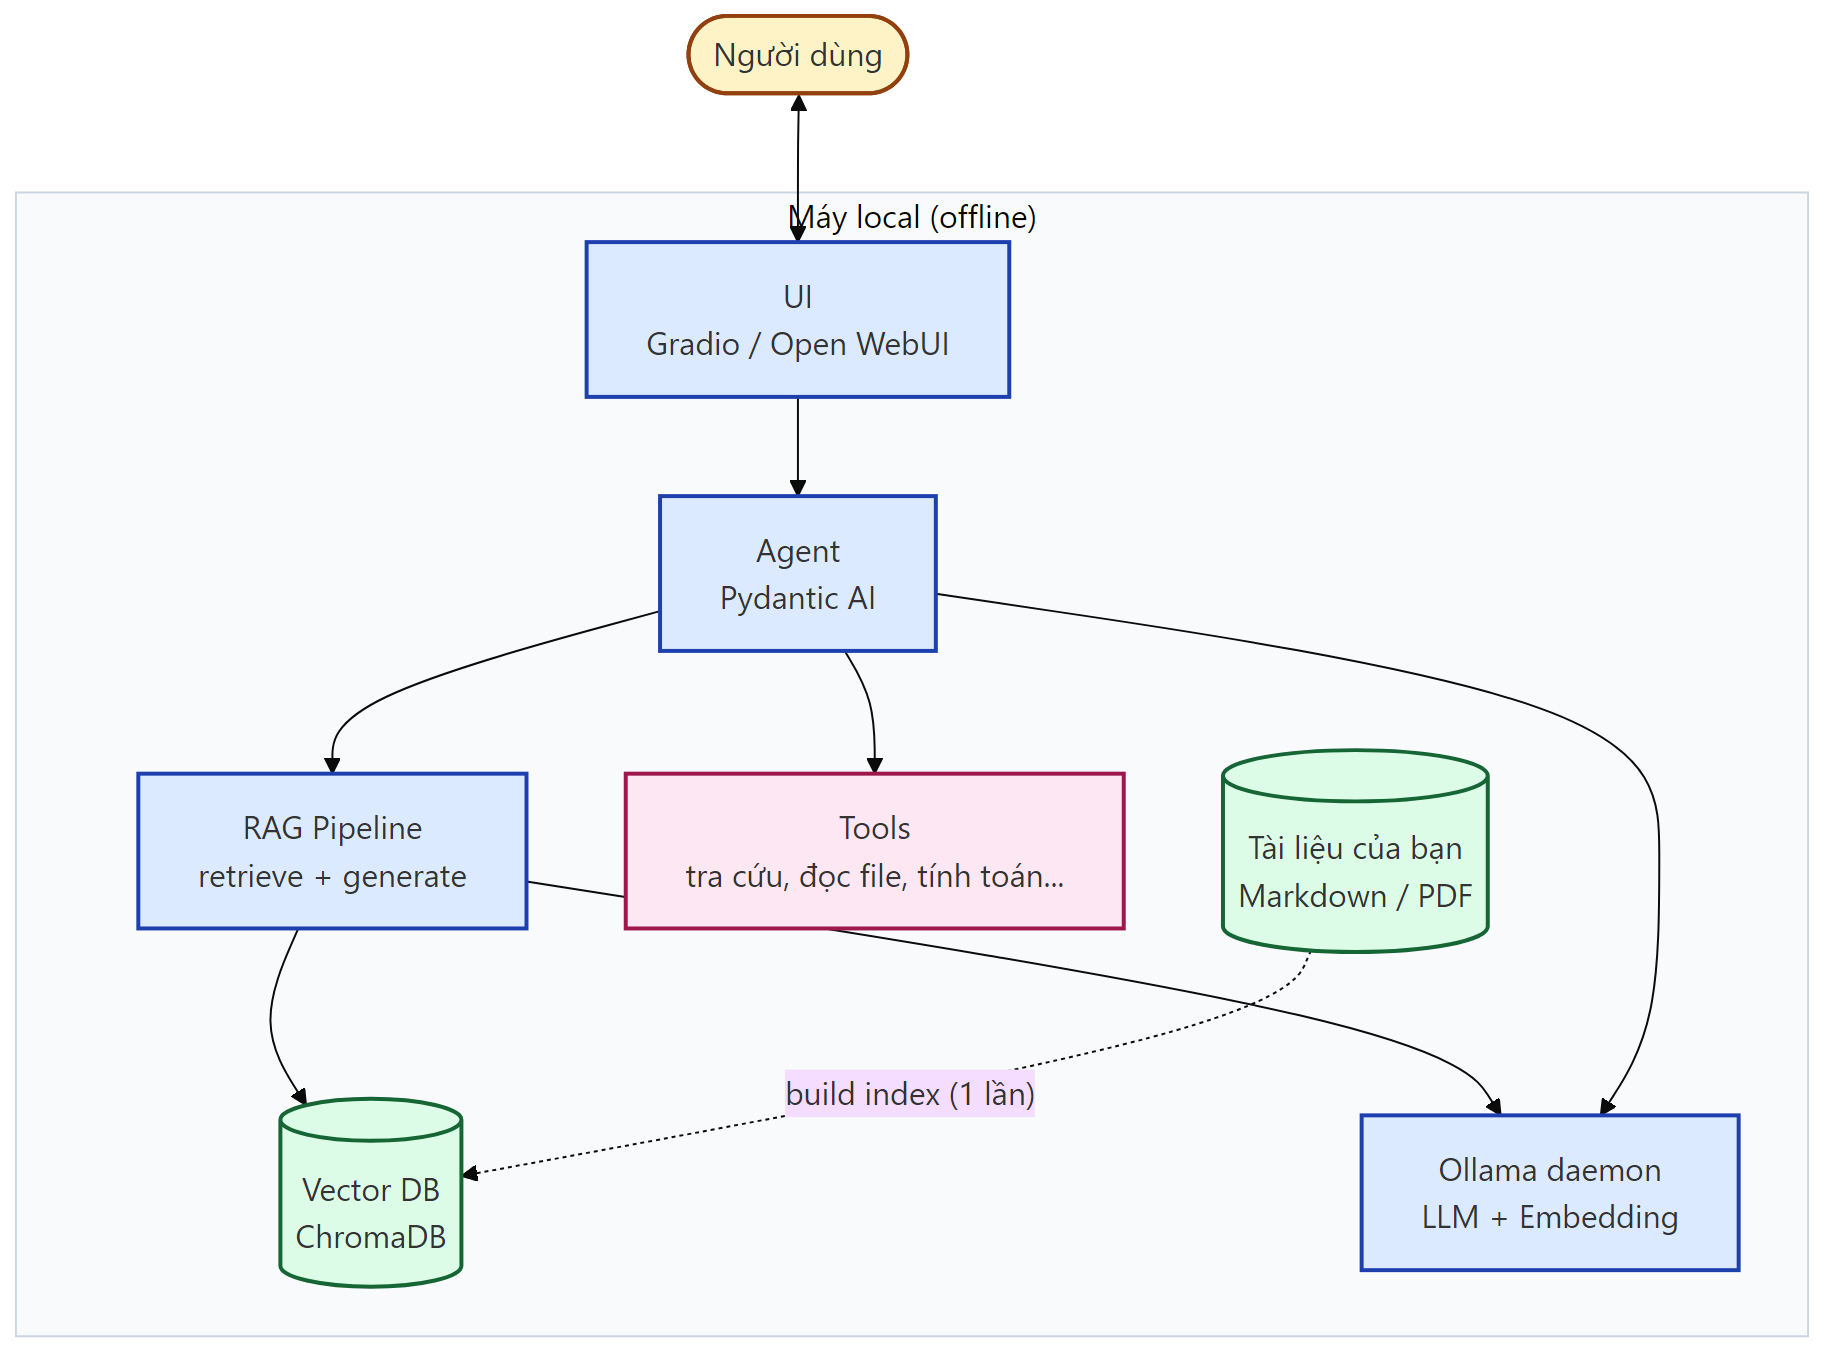
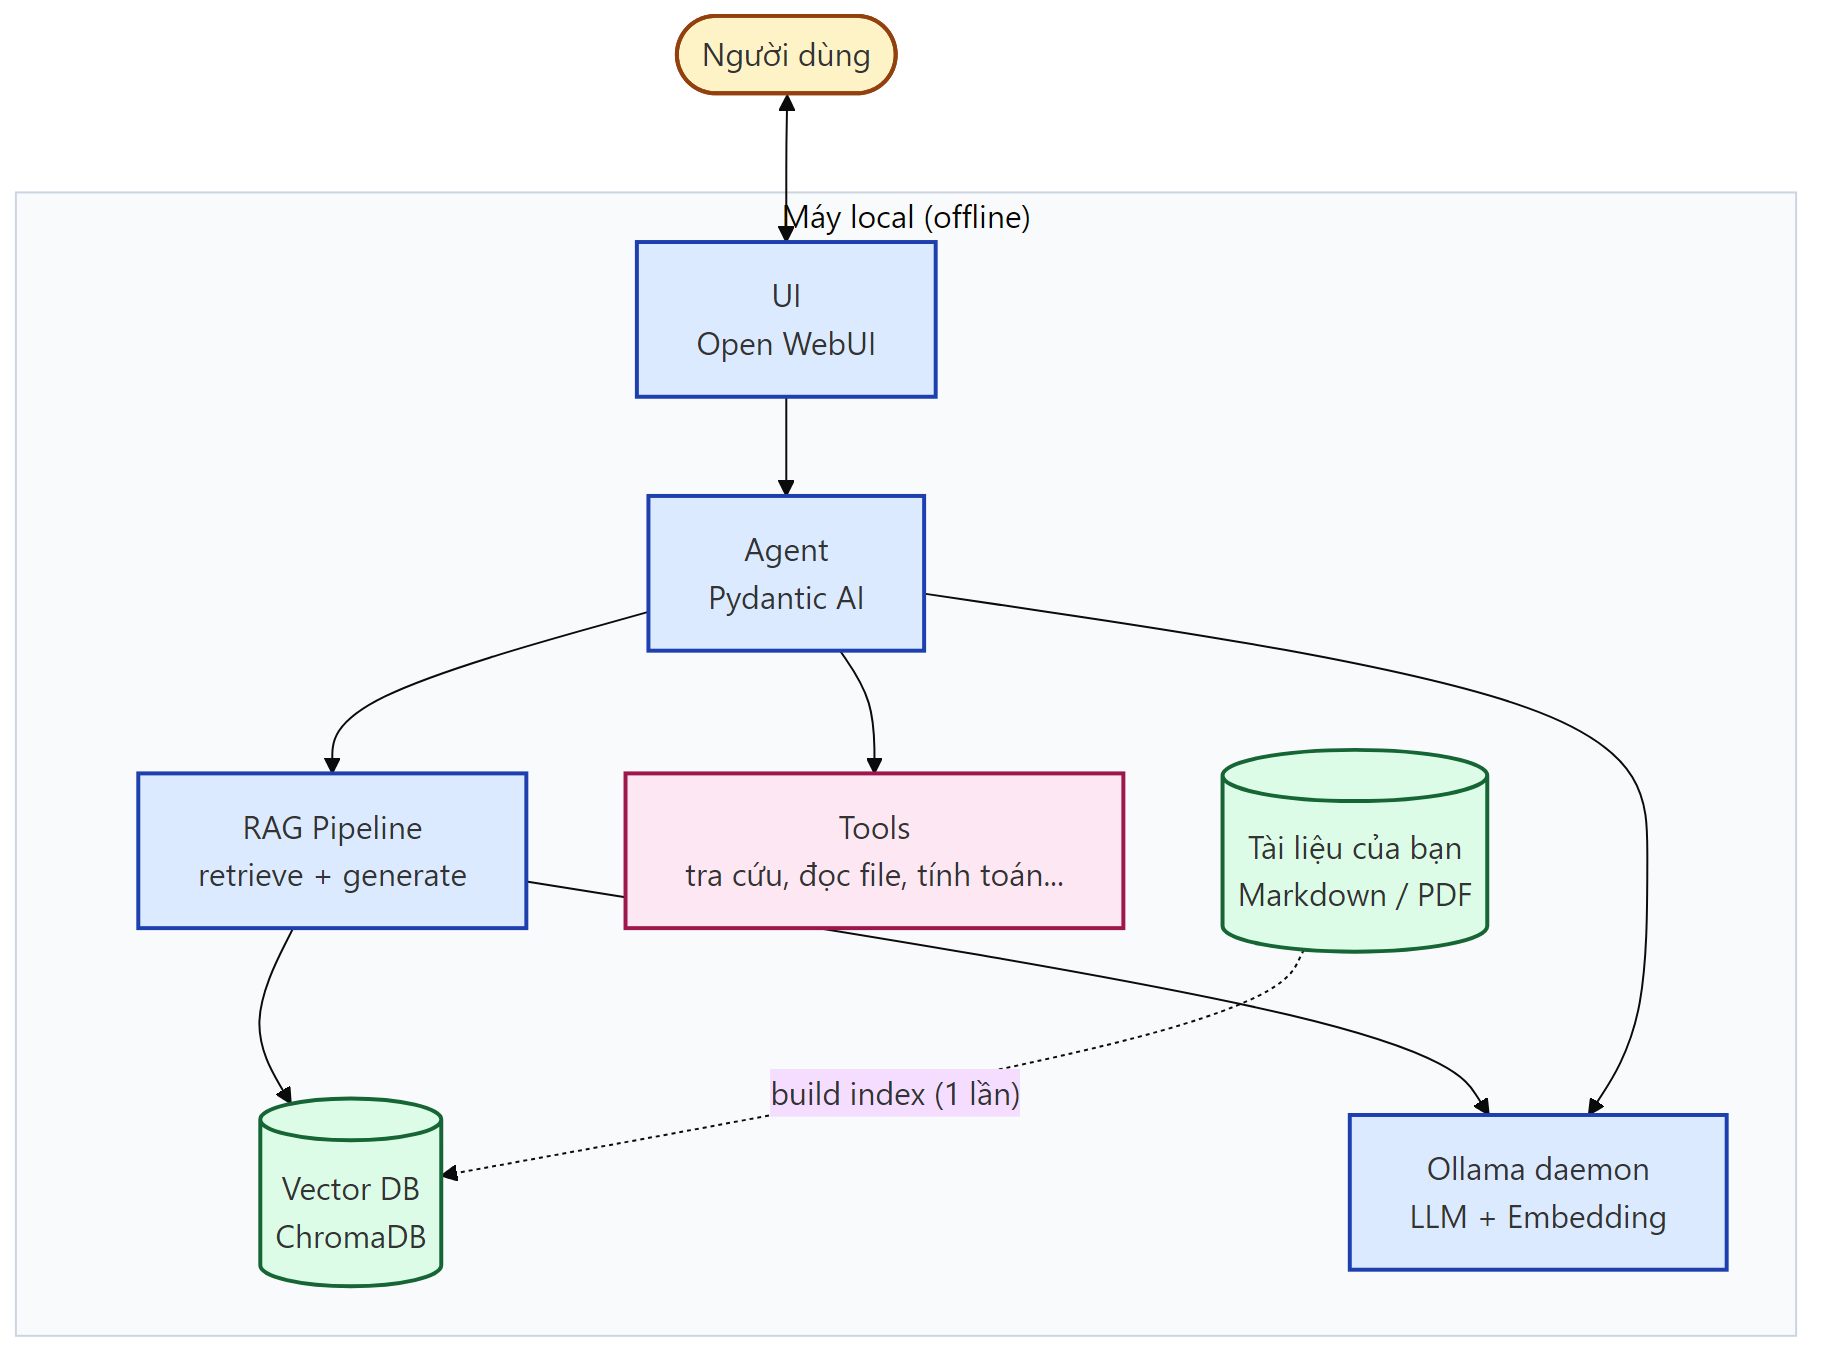
Gop ve 1 giao dien duy nhat: Open WebUI (bo 3-track, demote Gradio app)
Theo y kien hoc sinh do roi: moi tai lieu (README, slide, handbook, kich ban, checklist, notebook) gio chi tro vao Open WebUI lam giao dien chat (giong ChatGPT, docker compose up -d -> :3000). Bo khung 3-track A/B/C -> 1 duong: hoc bang notebook + dung Open WebUI. Gradio app (2_rag/app.py) GIU lai nhung ha xuong 'vi du nang cao tuy chon', khong con trong luong hoc chinh. Thay anh demo Gradio bang anh Open WebUI THAT (qwen3:1.7b, Q&A tieng Viet) trong slide 16 + handbook; xoa 2 anh Gradio cu; them docs/capture_openwebui.py. Rebuild slides (Marp) + docx (pandoc) + diagram kien truc.

diff --git a/docs/capture_openwebui.py b/docs/capture_openwebui.py
@@ -1,0 +1,83 @@
+"""
+Chụp ảnh giao diện Open WebUI (giao diện chat khuyến nghị của workshop) ra PNG.
+
+Yêu cầu:
+    - Open WebUI đang chạy: `docker compose up -d` (mở http://localhost:3000)
+    - Ollama đang chạy ở host, đã pull qwen3:1.7b
+    - pip install playwright && playwright install chromium  (xem docs/requirements-docs.txt)
+
+Cách dùng:
+    python docs/capture_openwebui.py
+    -> sinh docs/screenshots/open_webui_rag_real.png
+
+Lưu ý: docker-compose.yml đặt WEBUI_AUTH=False nên vào thẳng giao diện chat,
+không cần tạo tài khoản. Script tự đóng popup "What's New", chọn qwen3:1.7b,
+gửi 1 câu hỏi tiếng Việt rồi chụp khung hội thoại.
+"""
+import time
+
+from playwright.sync_api import sync_playwright
+
+URL = "http://localhost:3000"
+OUT = "docs/screenshots/open_webui_rag_real.png"
+QUESTION = "Giải thích RAG (Retrieval-Augmented Generation) trong 3 câu ngắn gọn."
+MODEL = "qwen3:1.7b"
+
+
+def main() -> None:
+    with sync_playwright() as p:
+        browser = p.chromium.launch()
+        page = browser.new_page(viewport={"width": 1440, "height": 810})
+        page.goto(URL, wait_until="networkidle", timeout=60000)
+        time.sleep(5)
+
+        # Đóng popup "What's New" (nếu có)
+        for label in ["Okay, Let's Go!", "Okay, Let’s Go!", "Okay"]:
+            try:
+                page.get_by_role("button", name=label).click(timeout=3000)
+                break
+            except Exception:
+                pass
+        else:
+            try:
+                page.keyboard.press("Escape")
+            except Exception:
+                pass
+        time.sleep(2)
+
+        # Chọn model MODEL (best-effort)
+        try:
+            page.get_by_text("anninh", exact=False).first.click(timeout=4000)
+            time.sleep(1)
+            page.get_by_text(MODEL, exact=False).first.click(timeout=4000)
+            time.sleep(1)
+        except Exception:
+            pass
+
+        # Gõ câu hỏi + gửi
+        sent = False
+        for sel in ["textarea", '[contenteditable="true"]']:
+            try:
+                box = page.locator(sel).last
+                box.click(timeout=4000)
+                if sel == "textarea":
+                    box.fill(QUESTION)
+                else:
+                    box.type(QUESTION)
+                time.sleep(0.5)
+                page.keyboard.press("Enter")
+                sent = True
+                break
+            except Exception:
+                pass
+
+        if sent:
+            time.sleep(30)  # chờ CPU sinh câu trả lời
+
+        page.screenshot(path=OUT, full_page=False)
+        browser.close()
+    print(f"[OK] Đã lưu {OUT}")
+
+
+if __name__ == "__main__":
+    main()

diff --git a/docs/build_docx.py b/docs/build_docx.py
@@ -107,14 +107,8 @@ DIAGRAM_INJECTIONS = [
     ),
     (
         r"^# Phần 2 — RAG đi sâu",
-        "screenshots/gradio_ui_real.png",
-        "Hình 12. Gradio UI thật của workshop khi mở lần đầu: sidebar có model dropdown, top-k slider, index status; main là chat với 4 examples",
-        "after",
-    ),
-    (
-        r"^## 2\.5 Đánh giá chất lượng RAG",
-        "screenshots/gradio_ui_chat_real.png",
-        "Hình 13. Gradio UI sau khi user gửi câu hỏi qua browser — câu trả lời render real-time (chụp bằng Playwright trong lúc test)",
+        "screenshots/open_webui_rag_real.png",
+        "Hình 12. Open WebUI — giao diện chat khuyến nghị của workshop (giống ChatGPT, chạy 100% local): chọn model qwen3:1.7b, hỏi đáp tiếng Việt, hỗ trợ kéo–thả tài liệu để RAG",
         "after",
     ),
 ]

diff --git a/2_rag/app.py b/2_rag/app.py
@@ -1,5 +1,9 @@
 """
-Gradio chat UI cho RAG — đã polish cho Gradio 6.x.
+(TÙY CHỌN / NÂNG CAO) Gradio chat UI cho RAG — ví dụ "tự build giao diện bằng code".
+Giao diện chính của workshop là Open WebUI: `docker compose up -d` → http://localhost:3000.
+File này dành cho ai muốn xem RAG được gói thành UI chỉ trong ~80 dòng code.
+
+Đã polish cho Gradio 6.x.
 
 Cải tiến so với bản trước:
 - Theme Soft (xanh navy, nhẹ nhàng)

diff --git a/README.md b/README.md
@@ -127,26 +127,20 @@ Quên bật venv → gặp lỗi `ModuleNotFoundError`. Cứ bật lại rồi c
 
 ---
 
-## 5. Chọn đường đi của bạn
+## 5. Cách học & giao diện
 
-| Bạn là… | Chọn | Làm gì |
-|---|---|---|
-| **Chưa từng lập trình** | **Track A** — Click chuột | Chạy giao diện web Open WebUI, kéo–thả tài liệu, không cần code |
-| **Biết mở terminal / muốn học** | **Track B** — Notebook ⭐ | Mở từng notebook, chạy từng ô, hiểu từng bước (**khuyến nghị**) |
-| **Muốn tự build app riêng** | **Track C** — Vibe coding | Xong Track B rồi, nhờ AI (Cursor/Claude Code) sửa repo theo ý bạn |
+**Học bằng notebook (khuyến nghị):** mở file `.ipynb` từng module bằng Jupyter Lab, chạy từng ô code để hiểu từng bước.
+```bash
+jupyter lab        # đợi trình duyệt tự mở, bấm vào notebook.ipynb của từng module
+```
 
-> Track A và B là **hai cách bắt đầu khác nhau** — chọn 1. Track C làm **sau** khi đã xong Track B.
-
-**Track A — Click-only (không code):** cần cài [Docker Desktop](https://www.docker.com/products/docker-desktop/) trước (script setup **không** tự cài Docker; **Track B/C không cần Docker**). Cần Ollama đang chạy.
+**Giao diện chat — Open WebUI** (giống ChatGPT, chạy 100% local): lịch sử hội thoại, đổi model, **kéo–thả tài liệu để hỏi đáp** — không cần code. Cần cài [Docker Desktop](https://www.docker.com/products/docker-desktop/) trước, và Ollama phải đang chạy:
 ```powershell
 docker compose up -d        # khởi động Open WebUI
 # Mở trình duyệt: http://localhost:3000
 ```
-**Track B — Notebook (khuyến nghị):** Mở file notebook (`.ipynb`) từng module bằng Jupyter Lab, chạy từng ô code. Cách mở:
-```bash
-jupyter lab        # đợi trình duyệt tự mở, bấm vào file notebook.ipynb của từng module
-```
-**Track C — Vibe coding:** đọc [VIBE_CODING.md](VIBE_CODING.md).
+
+> 💡 **Nâng cao (tùy chọn):** tự mở rộng repo bằng AI (Cursor/Claude Code) → đọc [VIBE_CODING.md](VIBE_CODING.md).
 
 ---
 
@@ -165,7 +159,7 @@ Hỏi đáp trên tài liệu của bạn. **Yêu cầu: xây dựng index lần
 ```bash
 python 2_rag/rag_minimal.py --build                          # tạo index (1 lần — bắt buộc cho cả Module 3)
 python 2_rag/rag_minimal.py --ask "Quy định mật khẩu thế nào?"
-python 2_rag/app.py                                          # giao diện web: http://127.0.0.1:7860
+# Giao diện chat đẹp (giống ChatGPT)? → dùng Open WebUI: docker compose up -d → http://localhost:3000
 ```
 
 ### Module 3 — Agent (tùy chọn, giới thiệu) · [chi tiết](3_agent/)
@@ -181,7 +175,7 @@ python 3_agent/agent_simple.py --ask "Bây giờ là mấy giờ?"
 
 ## 7. Tự học hay học trên lớp?
 
-- **Tự học:** làm tuần tự **0 → 1 → 2 → 3** (đừng bỏ Module 2 vì Module 3 cần index của nó). Dùng **Track B (notebook)**. Tổng ~1–2 giờ tùy tốc độ.
+- **Tự học:** làm tuần tự **0 → 1 → 2 → 3** (đừng bỏ Module 2 vì Module 3 cần index của nó). Dùng **notebook**. Tổng ~1–2 giờ tùy tốc độ.
 - **Học trên lớp:** giảng viên dẫn theo slide; bảng phân bổ thời gian ở mục **"Dành cho giảng viên"** cuối trang.
 
 ---
@@ -195,7 +189,7 @@ python 3_agent/agent_simple.py --ask "Bây giờ là mấy giờ?"
 | `Connection refused` / Ollama không phản hồi | Ollama chưa chạy → mở app Ollama (Windows: tìm icon ở khay hệ thống) |
 | Module 3 báo **"Lỗi truy vấn RAG"** | Chưa build index → chạy `python 2_rag/rag_minimal.py --build` |
 | `winget` không nhận diện (Windows) | Cài [App Installer](https://www.microsoft.com/store/productId/9NBLGGH4NNS1) |
-| Cổng `11434` / `7860` / `3000` đang bận | Đã có tiến trình khác chạy — thường không sao, dùng luôn |
+| Cổng `11434` / `3000` đang bận | Đã có tiến trình khác chạy — thường không sao, dùng luôn |
 
 Bảng lỗi đầy đủ theo từng hệ điều hành: [0_setup/README.md](0_setup/README.md). Lỗi sâu hơn: [TAI_LIEU_CHI_TIET.md — Phần 7](TAI_LIEU_CHI_TIET.md).
 
@@ -207,13 +201,13 @@ Bảng lỗi đầy đủ theo từng hệ điều hành: [0_setup/README.md](0_
 .
 ├── 0_setup/              # Script cài đặt (.ps1 cho Windows, .sh cho macOS/Linux)
 ├── 1_ollama_basics/      # ⭐ Module 1: chat, streaming, API, so sánh model
-├── 2_rag/                # Module 2: RAG + giao diện Gradio
+├── 2_rag/                # Module 2: RAG (pipeline + CLI)
 │   └── data/             #   ↳ dataset MẪU (6 file quy chế — thay bằng tài liệu của bạn)
 ├── 3_agent/              # Module 3: agent + 4 tool (có sandbox)
 │   └── sample_logs/      #   ↳ log MẪU để demo
 ├── docs/                 # Tài liệu Word + sơ đồ (xem mục dưới)
 ├── slides/               # Slide bài giảng (cho giảng viên)
-├── docker-compose.yml    # Open WebUI cho Track A
+├── docker-compose.yml    # Open WebUI — giao diện chat khuyến nghị
 ├── requirements.txt      # Thư viện Python cho học viên
 └── VIBE_CODING.md        # Hướng dẫn tự mở rộng repo bằng AI
 ```
@@ -266,7 +260,7 @@ Triết lý: **giảng tập trung trực giác + demo cốt lõi**; chi tiết 
 | Embedding | **nomic-embed-text** | 274MB, đa ngôn ngữ, chạy qua Ollama |
 | Vector DB | **ChromaDB** | Gọn trong 1 file, không cần server riêng |
 | Agent | **Pydantic AI** | Python thuần, type-safe, dễ đọc |
-| Giao diện | **Gradio** + **Open WebUI** | Gradio cho tùy biến linh hoạt; Open WebUI có sẵn đầy đủ tính năng |
+| Giao diện | **Open WebUI** | Giống ChatGPT, đầy đủ tính năng, chạy bằng Docker — không cần code |
 
 ---
 
@@ -278,7 +272,6 @@ Triết lý: **giảng tập trung trực giác + demo cốt lõi**; chi tiết 
 | **Qwen3** | [qwenlm.github.io](https://qwenlm.github.io/) | Alibaba Cloud |
 | **ChromaDB** | [trychroma.com](https://www.trychroma.com) | Chroma |
 | **Pydantic AI** | [ai.pydantic.dev](https://ai.pydantic.dev) | Pydantic |
-| **Gradio** | [gradio.app](https://www.gradio.app) | Hugging Face |
 | **Open WebUI** | [openwebui.com](https://openwebui.com) | OSS community |
 
 Paper nền tảng: **RAG** — [Lewis et al. 2020](https://arxiv.org/abs/2005.11401) · **ReAct** — [Yao et al. 2022](https://arxiv.org/abs/2210.03629). Danh sách đầy đủ: [TAI_LIEU_CHI_TIET.md — Phần 8](TAI_LIEU_CHI_TIET.md).

diff --git a/KICH_BAN_GIANG.md b/KICH_BAN_GIANG.md
@@ -54,7 +54,7 @@ Cân đối: lý thuyết/demo ~51' vs thực hành ~41' (Module 1-2 cân ~50/50
 | Hugging Face Hub | [huggingface.co](https://huggingface.co) | Hugging Face |
 | ChromaDB | [trychroma.com](https://www.trychroma.com) | Chroma |
 | Pydantic AI | [ai.pydantic.dev](https://ai.pydantic.dev) | Pydantic (FastAPI team) |
-| Gradio | [gradio.app](https://www.gradio.app) | Hugging Face |
+| Open WebUI | [openwebui.com](https://openwebui.com) | OSS community |
 | Open WebUI | [openwebui.com](https://openwebui.com) | Open source community |
 | MCP (Model Context Protocol) | [modelcontextprotocol.io](https://modelcontextprotocol.io) | Anthropic |
 
@@ -76,7 +76,7 @@ Cân đối: lý thuyết/demo ~51' vs thực hành ~41' (Module 1-2 cân ~50/50
 
 ## 0.2 Demo trực quan (4')
 
-[LƯU Ý] Đây là khoảnh khắc tạo ấn tượng đầu — chuẩn bị sẵn Open WebUI (hoặc Gradio app của Module 2) chạy nền, có sẵn vài tài liệu trung tính trong đó (sổ tay, FAQ, ghi chú...).
+[LƯU Ý] Đây là khoảnh khắc tạo ấn tượng đầu — chuẩn bị sẵn Open WebUI chạy nền, có sẵn vài tài liệu trung tính trong đó (sổ tay, FAQ, ghi chú...).
 
 > "Trước khi vào lý thuyết, để tôi cho các bạn xem một thứ. Đây là một con chatbot, trông giống ChatGPT đúng không?"
 
@@ -379,22 +379,22 @@ chế đơn vị"            quy chế đơn vị trước
 
 > "Để ý: câu trả lời trích nguồn — 'theo tài liệu X'. Đây là điểm cực kỳ quan trọng với MỌI ứng dụng: mọi kết luận của AI phải truy nguồn được, để người dùng kiểm chứng — không tin AI mù quáng."
 
-## 2.4 Demo UI với Gradio (5')
+## 2.4 Demo UI với Open WebUI (5')
 
 [DEMO]
-```bash
-python 2_rag/app.py
+```powershell
+docker compose up -d
 ```
 
-Mở browser http://localhost:7860, hỏi 2-3 câu. Để ý phần nguồn append cuối câu trả lời.
+Mở browser http://localhost:3000, chọn model qwen3:1.7b, hỏi 2-3 câu. **Kéo–thả 1 tài liệu vào** để hỏi đáp ngay trên nội dung đó.
 
-> "Đây là Gradio — thư viện phổ biến nhất trong cộng đồng LLM, được dùng làm chuẩn bởi HuggingFace. So với Streamlit thì nhẹ hơn, khởi động nhanh hơn, và quan trọng nhất: **có streaming sẵn** — các bạn thấy token bay ra theo thời gian thực giống ChatGPT."
+> "Đây là Open WebUI — giao diện chat **giống hệt ChatGPT** nhưng chạy 100% trên máy. Có lịch sử hội thoại, đổi model, và **kéo–thả tài liệu để hỏi đáp** (RAG sẵn trong giao diện). Cài đúng 1 lệnh Docker, không viết dòng code nào."
 
-[LƯU Ý] Gradio chính thức: [gradio.app](https://www.gradio.app) — thuộc Hugging Face. Streamlit: [streamlit.io](https://streamlit.io) — thuộc Snowflake. ChromaDB: [trychroma.com](https://www.trychroma.com).
+[LƯU Ý] Open WebUI chính thức: [openwebui.com](https://openwebui.com). Cần Docker Desktop + Ollama đang chạy. `docker-compose.yml` đặt `WEBUI_AUTH=False` để vào thẳng giao diện (lab) — bật lại auth khi production.
 
-> "80 dòng code Gradio. Có sidebar đổi model live, slider top-k, nguồn trích dẫn ngay cuối câu trả lời. Đây là cú 'wow moment' — sau Module 2 các bạn đã có thể tự build một chatbot tra cứu **tài liệu của riêng mình**, chạy offline, có trích nguồn."
+> "Đây là cú 'wow moment' — sau Module 2 các bạn đã có một trợ lý tra cứu **tài liệu của riêng mình**, chạy offline, giao diện đẹp như ChatGPT mà không cần code."
 
-[LƯU Ý] Gradio mặc định bind 127.0.0.1 (chỉ localhost) — đã cấu hình trong code để an toàn. Nếu muốn share LAN, đổi `server_name="0.0.0.0"`.
+[LƯU Ý] Muốn cho học viên thấy RAG 'bằng code của chính mình' (~80 dòng): repo có sẵn `2_rag/app.py` (Gradio) như **ví dụ nâng cao tùy chọn** — không bắt buộc, để học viên về tự xem.
 
 ## 2.5 Góc bảo mật RAG — overview (2')
 
@@ -623,5 +623,5 @@ User: "Thời tiết Hà Nội thế nào, có nên mang ô không?"
 | Pull model chậm | Switch sang model đã pull sẵn |
 | Notebook lỗi kernel | Restart kernel, chạy lại từ đầu |
 | ChromaDB lỗi | Xóa `chroma_db/`, build lại |
-| Gradio không mở | Check port 7860 free, đổi `server_port=` trong `app.py` |
+| Open WebUI không mở | Docker đang chạy? `docker compose up -d`, mở http://localhost:3000 |
 | Agent không gọi tool | Tăng `retries`, kiểm tra docstring |

diff --git a/docs/README.md b/docs/README.md
@@ -16,7 +16,7 @@ Thư mục này chứa file Word của handbook + các asset (diagrams, screensh
 | Thư mục | Nội dung |
 |---|---|
 | `diagrams/` | 8 Mermaid source `.mmd` + 8 PNG render (architecture, RAG pipeline, ReAct loop, MCP...) |
-| `screenshots/` | Terminal output (Ollama/RAG/Agent) vẽ từ output đã chạy bằng `render_real_output.py`; Gradio UI là ảnh chụp (`gradio_ui_real.png`, `gradio_ui_chat_real.png` qua `capture_gradio.py`) |
+| `screenshots/` | Terminal output (Ollama/RAG/Agent) vẽ từ output đã chạy bằng `render_real_output.py`; ảnh giao diện chính `open_webui_rag_real.png` (Open WebUI) chụp qua `capture_openwebui.py` |
 
 ## Cách rebuild khi sửa nội dung
 
@@ -58,12 +58,14 @@ Các ảnh terminal (Ollama/RAG/Agent) được vẽ lại từ **output đã ch
 python docs/render_real_output.py
 ```
 
-Gradio UI (`gradio_ui_real.png`, `gradio_ui_chat_real.png`) là **ảnh chụp giao diện** qua Playwright:
+Ảnh giao diện **Open WebUI** (`open_webui_rag_real.png`) chụp qua Playwright:
 
 ```bash
-# Khởi động app trước: python 2_rag/app.py
-python docs/capture_gradio.py
+# Khởi động trước: docker compose up -d   (Open WebUI ở http://localhost:3000)
+python docs/capture_openwebui.py
 ```
+
+> Tùy chọn: nếu dùng giao diện Gradio tự code (`2_rag/app.py`), chụp bằng `docs/capture_gradio.py` (khởi động `python 2_rag/app.py` trước).
 
 ## Đổi style Word
 

diff --git a/slides/SLIDES.md b/slides/SLIDES.md
@@ -356,15 +356,15 @@ Hỏi "xe đạp" tìm được "xe máy" (gần nghĩa), không tìm "rau muố
 
 <div>
 
-![w:100%](../docs/screenshots/gradio_ui_real.png)
+![w:100%](../docs/screenshots/open_webui_rag_real.png)
 
-*Giao diện Gradio*
-
-</div>
+*Open WebUI — giống ChatGPT*
 
 </div>
 
-**~80 dòng Gradio** = chat UI streaming + chọn model + **trích nguồn từng câu trả lời**
+</div>
+
+**Open WebUI** = chat đầy đủ (lịch sử · đổi model · kéo–thả tài liệu) — cài 1 lệnh Docker, **không cần code**
 
 ---
 

diff --git a/2_rag/README.md b/2_rag/README.md
@@ -14,7 +14,7 @@
 |---|---|---|
 | 2.0 Step-by-step pipeline | [notebook.ipynb](notebook.ipynb) | 6 bước RAG, mỗi bước 1 cell có output |
 | 2.1 RAG minimal đóng gói | [rag_minimal.py](rag_minimal.py) | Pipeline RAG đầy đủ trong ~200 dòng, có CLI |
-| 2.2 Gradio UI | [app.py](app.py) | Giao diện chat có streaming, chọn model live, hiện trích nguồn |
+| 2.2 Giao diện chat | **Open WebUI** (`docker compose up -d` → :3000) | Chat giống ChatGPT, kéo–thả tài liệu, đổi model — không cần code. *(Nâng cao: tự build UI bằng code → [app.py](app.py))* |
 | 2.3 Dataset mẫu | [data/](data/) | 6 file MD giả lập quy chế an ninh |
 
 ## Pipeline RAG
@@ -73,9 +73,9 @@ python 2_rag/rag_minimal.py --build
 # 2. Hỏi đáp CLI
 python 2_rag/rag_minimal.py --ask "Quy định mật khẩu của đơn vị?"
 
-# 3. Chat UI (Gradio)
-python 2_rag/app.py
-# Mở http://127.0.0.1:7860   (127.0.0.1 và localhost là cùng một máy)
+# 3. Giao diện chat đẹp (giống ChatGPT) → Open WebUI:
+#    docker compose up -d        → mở http://localhost:3000
+#    (Nâng cao: tự build UI bằng code có sẵn — python 2_rag/app.py → http://localhost:7860)
 ```
 
 > 🔁 **Nếu đổi embedding model** (vd `nomic-embed-text` → `bge-m3`): index cũ không còn hợp lệ → **xóa thư mục `chroma_db/`** rồi `--build` lại, nếu không kết quả sẽ sai âm thầm.

diff --git a/INSTRUCTOR_CHECKLIST.md b/INSTRUCTOR_CHECKLIST.md
@@ -17,7 +17,7 @@
   - `python 2_rag/rag_minimal.py --ask "Quy trình xử lý sự cố ATTT?"`
   - `python 3_agent/agent_simple.py --ask "Bây giờ là mấy giờ?"`
 - [ ] (Tùy chọn) Build model custom: sửa `Modelfile.anninh` → `FROM qwen3:1.7b`, `ollama create anninh -f 1_ollama_basics/Modelfile.anninh`.
-- [ ] Mở sẵn & xếp split-screen: **terminal** + **jupyter lab** (3 notebook) + **Gradio** (`python 2_rag/app.py`) + tab Open WebUI. Tránh mất thời gian chuyển cảnh giữa 4 module.
+- [ ] Mở sẵn & xếp split-screen: **terminal** + **jupyter lab** (3 notebook) + **Open WebUI** (`docker compose up -d` → http://localhost:3000). Tránh mất thời gian chuyển cảnh giữa các module.
 - [ ] **USB/LAN dự phòng**: chép sẵn model (qwen3:1.7b + nomic-embed-text) **và** thư mục `chroma_db/` đã build — cứu học viên thiếu setup.
 - [ ] Mở sẵn 5 ảnh fallback trong `docs/screenshots/` (phòng demo chậm).
 
@@ -50,14 +50,14 @@
 - ✅ "Có được forward email công vụ sang gmail?"
 - ✅ "Quy định mật khẩu của đơn vị?"
 
-(Các câu này cũng có sẵn làm nút ví dụ trong Gradio app và notebook.)
+(Các câu này cũng có sẵn làm gợi ý trong notebook và Open WebUI.)
 
 ## 🖥️ Demo: chạy gì LIVE, fallback gì
 | Demo | Live | Fallback nếu chậm/lỗi |
 |---|---|---|
 | Tắt Wi-Fi vẫn chạy | ✅ (đã warm) | Video/ảnh đã quay sẵn |
 | Chat 5 dòng (Module 1) | ✅ | `docs/screenshots/terminal_ollama_chat.png` |
-| RAG query + Gradio | ✅ 1 câu | `terminal_rag_query.png` + `gradio_ui_real.png` |
+| RAG query + Open WebUI | ✅ 1 câu | `terminal_rag_query.png` + `open_webui_rag_real.png` |
 | Agent single-tool | ✅ "mấy giờ?" | `terminal_agent_trace.png` |
 | Agent **multi-tool** | ❌ KHÔNG live | **Chỉ chiếu screenshot** — nói rõ cần qwen3:4b+ |
 
@@ -72,5 +72,5 @@
 | Ollama không phản hồi | `ollama serve` ở terminal khác |
 | Pull/demo chậm | Chuyển sang model đã pull sẵn, đừng đứng chờ |
 | `ModuleNotFoundError` | Học viên quên bật venv → activate lại |
-| Cổng 7860/3000 bận | Đã có tiến trình chạy — dùng luôn, hoặc đóng cái cũ |
+| Cổng 3000 bận | Đã có tiến trình chạy — dùng luôn, hoặc đóng cái cũ |
 | Module 3 "Lỗi truy vấn RAG" | Chưa build index → `python 2_rag/rag_minimal.py --build` |

diff --git a/VIBE_CODING.md b/VIBE_CODING.md
@@ -60,7 +60,7 @@ Trong 2_rag/rag_minimal.py:
 ```
 Tôi muốn build một app phân tích log bảo mật:
 - Reuse module 1, 2, 3 của workshop
-- UI Gradio cho upload file log (.log, .txt)
+- Web UI để upload file log (.log, .txt) — dùng Open WebUI, hoặc tự viết bằng Gradio/FastAPI
 - Agent phân tích: tìm anomaly, đối chiếu chính sách nội bộ, gợi ý hành động
 - Export kết quả ra Markdown report
 